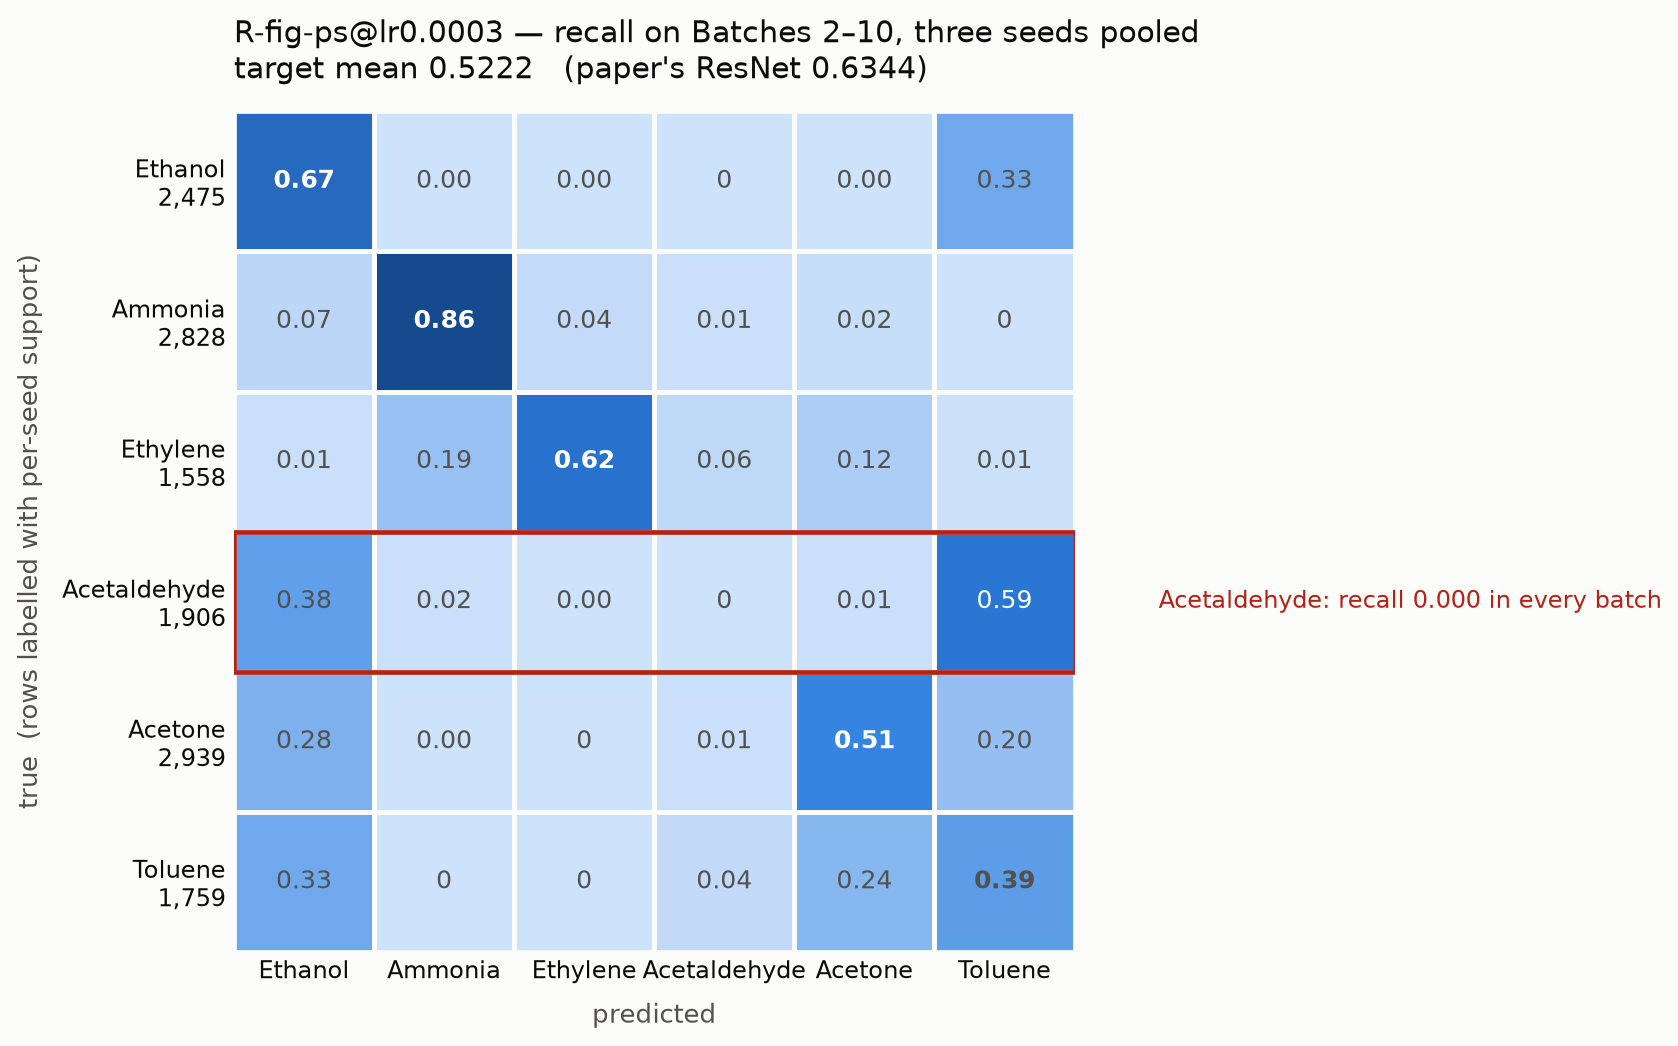
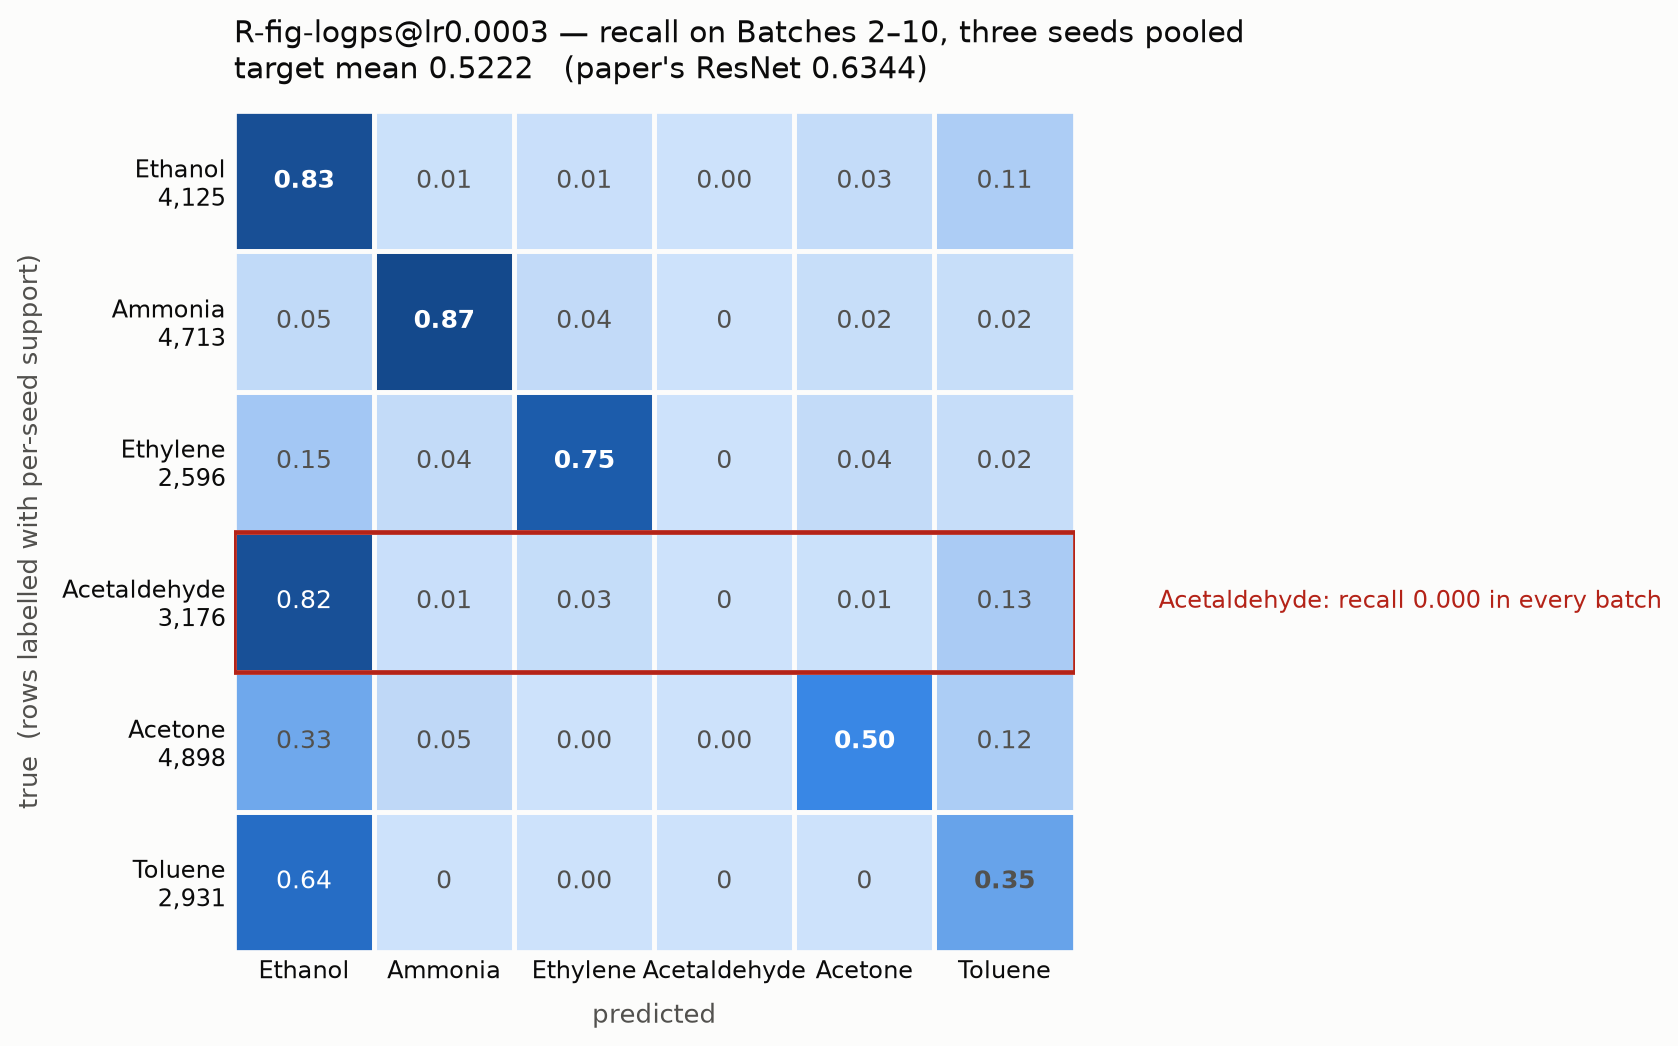
A signed-log before per-sample is worth +0.032, separable at five seeds
v7.4 tried three input Normal blocks against the incumbent per-sample; v7.5
re-ran the grid with the two reserve seeds because the best difference fell just
under the three-seed threshold. At five seeds, pooled SD 0.0168 and a 0.0212
threshold:

  signed-log then per-sample   0.5556  +0.0323  separable
  per-sample                   0.5232       --
  StandardScaler then per-sample 0.5034 -0.0198  not separable
  per-statistic-group          0.4263  -0.0969  separable, worse

The winner's worst seed (0.5442) beats the incumbent's best (0.5384). It lifts
Ethanol 0.668 to 0.832 and Ethylene 0.616 to 0.750 and leaves Acetone and
Toluene untouched; Acetaldehyde stays at 0.000.

Two negative results worth keeping. The centroid-misplacement diagnostic ranked
StandardScaler-then-per-sample first and it trained worse than the incumbent, so
that diagnostic does not predict target accuracy - though it did point at the
right classes. And per-statistic-group normalisation, motivated by the 1e4
steady-state features dominating the 1e0 transients, costs 0.097: separating the
statistics also destroys the cross-statistic ratios gas identity uses.

The best design, figures, all-results table and CLAUDE.md are updated.

diff --git a/docs/all-results.md b/docs/all-results.md
@@ -4,24 +4,25 @@ The narrative and the evidence live in `baseline.md`; this file is the raw table
 
 Every cell this branch has trained, sorted by target mean. All are the plain
 ResNet baseline with `L_ce` only - no augmentation, no feature generation, no
-contrastive loss. Three seeds each (1042, 2024, 3407); SD is across seeds.
+contrastive loss. Seeds 1042, 2024, 3407, and for the v7.5 grid also 42 and 123.
 
-| Cell | run | channels | head | input `Normal` | head norm | lr | Batch 1 | Target mean | SD |
-|---|---|---|---|---|---|---:|---:|---:|---:|
-| `R-fig-ps@lr0.0003` | v7.1 | Fig. 2 | flatten | per-sample | BatchNorm | 0.0003 | 0.9633 | **0.5222** | 0.0277 |
-| `R-fig-ps@lr0.0003` | v7.2 | Fig. 2 | flatten | per-sample | BatchNorm | 0.0003 | 0.9633 | **0.5222** | 0.0277 |
-| `R-txt-ps@lr0.0003` | v7.1 | capped 128 | flatten | per-sample | BatchNorm | 0.0003 | 0.9700 | **0.4928** | 0.0062 |
-| `R-fig-ps@lr0.001` | v7.1 | Fig. 2 | flatten | per-sample | BatchNorm | 0.001 | 0.9813 | **0.4770** | 0.0362 |
-| `R-fig-ln@lr0.0003` | v7.2 | Fig. 2 | flatten | scaler | LayerNorm | 0.0003 | 1.0000 | **0.4760** | 0.0040 |
-| `R-fig-ps@lr0.0001` | v7.1 | Fig. 2 | flatten | per-sample | BatchNorm | 0.0001 | 0.9318 | **0.4724** | 0.0183 |
-| `R-txt-ps` | v7.0 | capped 128 | flatten | per-sample | BatchNorm | 0.001 | 0.9813 | **0.4673** | 0.0443 |
-| `R-txt-ps@lr0.001` | v7.1 | capped 128 | flatten | per-sample | BatchNorm | 0.001 | 0.9813 | **0.4673** | 0.0443 |
-| `R-txt-ps@lr0.0001` | v7.1 | capped 128 | flatten | per-sample | BatchNorm | 0.0001 | 0.9303 | **0.4621** | 0.0233 |
-| `R-fig-ps-ln@lr0.0003` | v7.2 | Fig. 2 | flatten | per-sample | LayerNorm | 0.0003 | 0.9685 | **0.4468** | 0.0022 |
-| `R-fig@lr0.0003` | v7.2 | Fig. 2 | flatten | scaler | BatchNorm | 0.0003 | 0.9955 | **0.4105** | 0.0173 |
-| `R-lite-ps` | v7.0 | capped 128 | GAP | per-sample | BatchNorm | 0.001 | 0.8787 | **0.3931** | 0.0412 |
-| `R-txt` | v7.0 | capped 128 | flatten | scaler | BatchNorm | 0.001 | 1.0000 | **0.3777** | 0.0365 |
-| `R-lite` | v7.0 | capped 128 | GAP | scaler | BatchNorm | 0.001 | 0.9551 | **0.2958** | 0.0524 |
+| Cell | run | channels | head | input `Normal` | head norm | lr | seeds | Batch 1 | Target mean | SD |
+|---|---|---|---|---|---|---:|---:|---:|---:|---:|
+| `R-fig-logps@lr0.0003` | v7.5 | Fig. 2 | flatten | signed-log→per-sample | BatchNorm | 0.0003 | 5 | 0.9906 | **0.5556** | 0.0137 |
+| `R-fig-ps@lr0.0003` | v7.5 | Fig. 2 | flatten | per-sample | BatchNorm | 0.0003 | 5 | 0.9636 | **0.5232** | 0.0203 |
+| `R-fig-ssps@lr0.0003` | v7.5 | Fig. 2 | flatten | SS→per-sample | BatchNorm | 0.0003 | 5 | 0.9982 | **0.5034** | 0.0138 |
+| `R-txt-ps@lr0.0003` | v7.1 | capped 128 | flatten | per-sample | BatchNorm | 0.0003 | 3 | 0.9700 | **0.4928** | 0.0062 |
+| `R-fig-ps@lr0.001` | v7.1 | Fig. 2 | flatten | per-sample | BatchNorm | 0.001 | 3 | 0.9813 | **0.4770** | 0.0362 |
+| `R-fig-ln@lr0.0003` | v7.2 | Fig. 2 | flatten | StandardScaler | LayerNorm | 0.0003 | 3 | 1.0000 | **0.4760** | 0.0040 |
+| `R-fig-ps@lr0.0001` | v7.1 | Fig. 2 | flatten | per-sample | BatchNorm | 0.0001 | 3 | 0.9318 | **0.4724** | 0.0183 |
+| `R-txt-ps` | v7.0 | capped 128 | flatten | per-sample | BatchNorm | 0.001 | 3 | 0.9813 | **0.4673** | 0.0443 |
+| `R-txt-ps@lr0.0001` | v7.1 | capped 128 | flatten | per-sample | BatchNorm | 0.0001 | 3 | 0.9303 | **0.4621** | 0.0233 |
+| `R-fig-ps-ln@lr0.0003` | v7.2 | Fig. 2 | flatten | per-sample | LayerNorm | 0.0003 | 3 | 0.9685 | **0.4468** | 0.0022 |
+| `R-fig-grp@lr0.0003` | v7.5 | Fig. 2 | flatten | per-statistic-group | BatchNorm | 0.0003 | 5 | 0.9978 | **0.4263** | 0.0183 |
+| `R-fig@lr0.0003` | v7.2 | Fig. 2 | flatten | StandardScaler | BatchNorm | 0.0003 | 3 | 0.9955 | **0.4105** | 0.0173 |
+| `R-lite-ps` | v7.0 | capped 128 | GAP | per-sample | BatchNorm | 0.001 | 3 | 0.8787 | **0.3931** | 0.0412 |
+| `R-txt` | v7.0 | capped 128 | flatten | StandardScaler | BatchNorm | 0.001 | 3 | 1.0000 | **0.3777** | 0.0365 |
+| `R-lite` | v7.0 | capped 128 | GAP | StandardScaler | BatchNorm | 0.001 | 3 | 0.9551 | **0.2958** | 0.0524 |
 
 ## References
 
@@ -35,22 +36,22 @@ contrastive loss. Three seeds each (1042, 2024, 3407); SD is across seeds.
 
 ## The best cell, per batch
 
-`R-fig-ps@lr0.0003`, target mean 0.5222.
+`R-fig-logps@lr0.0003`, target mean 0.5556 over 5 seeds.
 
 | Batch | this branch | paper ResNet | gap |
 |---|---:|---:|---:|
-| 2 | 0.827 | 0.769 | +0.058 |
-| 3 | 0.729 | 0.662 | +0.067 |
-| 4 | 0.673 | 0.642 | +0.030 |
-| 5 | 0.501 | 0.716 | **-0.215** |
-| 6 | 0.688 | 0.725 | -0.038 |
-| 7 | 0.466 | 0.502 | -0.036 |
-| 8 | 0.171 | 0.660 | **-0.489** |
-| 9 | 0.255 | 0.604 | **-0.349** |
-| 10 | 0.390 | 0.430 | -0.040 |
+| 2 | 0.888 | 0.769 | **+0.119** |
+| 3 | 0.723 | 0.662 | +0.062 |
+| 4 | 0.591 | 0.642 | -0.051 |
+| 5 | 0.566 | 0.716 | **-0.150** |
+| 6 | 0.560 | 0.725 | **-0.166** |
+| 7 | 0.499 | 0.502 | -0.003 |
+| 8 | 0.231 | 0.660 | **-0.429** |
+| 9 | 0.397 | 0.604 | **-0.206** |
+| 10 | 0.544 | 0.430 | **+0.113** |
 
-Six of the nine batches match or beat the paper's ResNet. The whole deficit is
-B5, B8 and B9, and its cause is documented in `baseline.md` section 5 and `docs/why-acetaldehyde.md`.
+Four of the nine batches match or beat the paper's ResNet. The deficit is
+concentrated in B8, B9, B6 and B5; `baseline.md` section 5 gives the cause.
 
 ## What moved the number, and what did not
 
@@ -59,11 +60,12 @@ B5, B8 and B9, and its cause is documented in `baseline.md` section 5 and `docs/
 | per-sample inputs instead of `StandardScaler`, BatchNorm head | **+0.112** | yes | `baseline.md` §4.3 |
 | LayerNorm head instead of BatchNorm, `StandardScaler` inputs | **+0.065** | yes | `baseline.md` §4.3 |
 | lr 0.001 -> 0.0003, Fig. 2 widths | +0.045 | no | `baseline.md` §4.2 |
+| **signed-log before per-sample** | **+0.032** | **yes (5 seeds)** | `baseline.md` §4.4 |
 | Fig. 2 channel widths instead of the prose's cap at 128 | +0.029 | no | `baseline.md` §4.2 |
+| averaging three seeds' softmax | +0.004 | no | `baseline.md` §4.4 |
 | lr 0.001 -> 0.0001 | -0.005 | no | `baseline.md` §4.2 |
+| `StandardScaler` before per-sample | -0.020 | no | `baseline.md` §4.4 |
 | LayerNorm head **on top of** per-sample inputs | **-0.075** | yes | `baseline.md` §4.3 |
 | global average pooling instead of flatten | **-0.078** | yes | `baseline.md` §4.1 |
-
-The two normalisations are substitutes with an interaction of -0.141: each is
-worth a lot alone and using both is worse than using either.
+| per-statistic-group normalisation | **-0.097** | yes | `baseline.md` §4.4 |
 

diff --git a/CLAUDE.md b/CLAUDE.md
@@ -74,11 +74,19 @@ re-deriving any of the following.
 
 ### From this branch (v7.0 to v7.3, `docs/`)
 
-- **The baseline stands at target mean 0.5222** against the paper's 0.6344, with
-  six of the nine batches at or above the paper and the whole deficit in B5, B8
-  and B9. `docs/all-results.md` lists every cell trained.
+- **The baseline stands at target mean 0.5556** over five seeds against the
+  paper's 0.6344. `docs/all-results.md` lists every cell trained.
 - **Per-sample input normalisation is worth +0.112**; it and a LayerNorm head are
   substitutes with an interaction of -0.141, so use exactly one, at the input.
+- **A signed-log before per-sample is worth a further +0.032**, separable at five
+  seeds, improving Ethanol and Ethylene and leaving Acetone and Toluene alone.
+  Grouping the normalisation by statistic across sensors costs -0.097; averaging
+  seeds' softmax is worth +0.004.
+- **Drift is a sensor phenomenon, not a gas one.** Ethanol, Acetaldehyde, Acetone
+  and Toluene drift along one shared direction, pairwise cosine 0.87 to 0.985,
+  and Batch 1's own two-session block offset estimates that direction at cosine
+  0.850 against Acetaldehyde's real drift - from Batch 1 alone. See
+  `docs/batch1-internal-drift.md`.
 - **Global average pooling costs -0.078.** The paper's "this network doesn't
   apply the pooling layer" is load-bearing.
 - **Memorisation is not the defect.** The flatten head reaches 1.0000 on Batch 1
